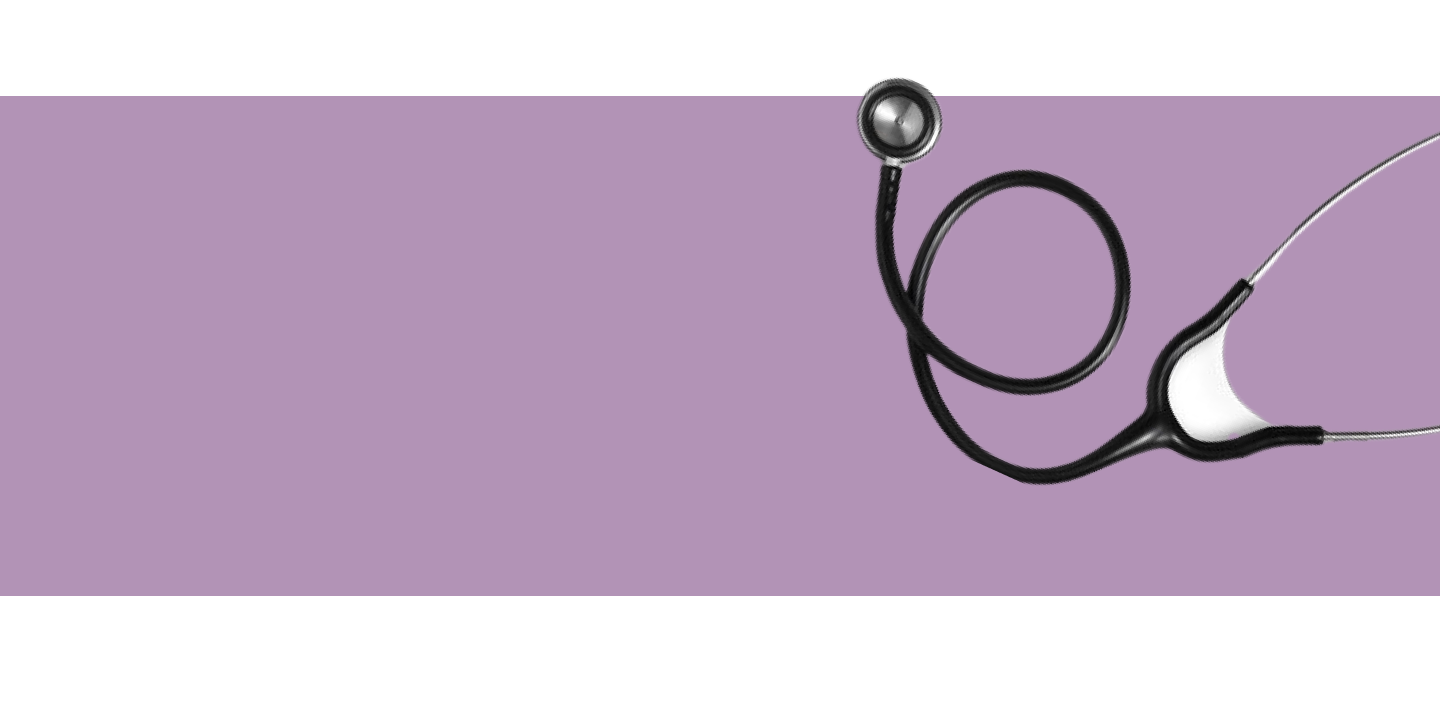
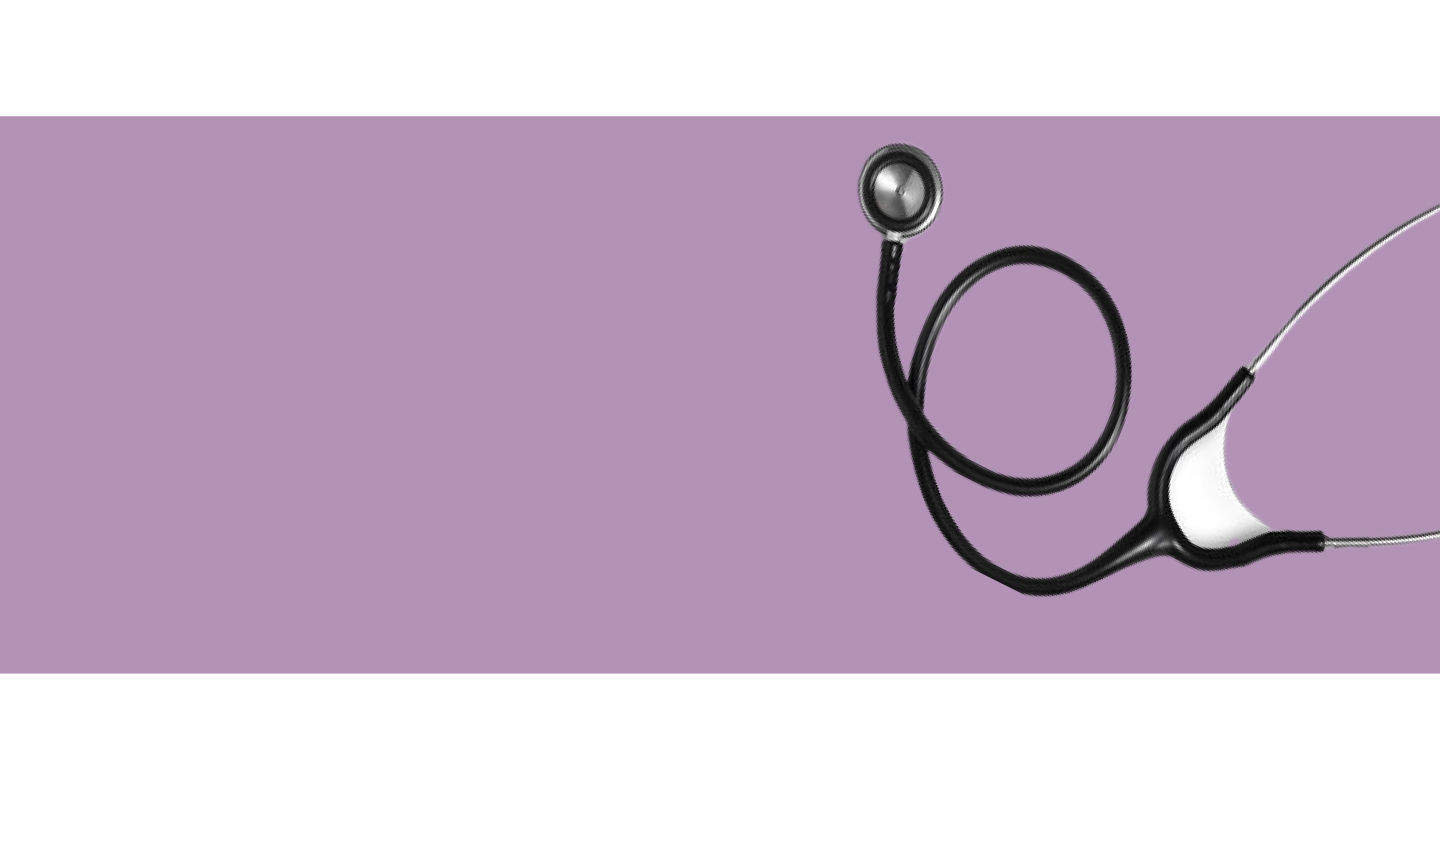
Update

Changed region(s): [[0.5938, 0.0926, 1.0, 0.7097], [0.0, 0.7714, 1.0, 0.8331], [0.9688, 0.1851, 1.0, 0.216]]

diff --git a/src/components/header/styles/header.css b/src/components/header/styles/header.css
@@ -1,10 +1,10 @@
 .landing-page{
     width: 100%;
     height: 80vh;
-    background-size: 100% 100%;
+    background-size: 100% 120%;
     background-repeat: no-repeat;
     background-image: url(../../../assets/images/background.png);
-    margin-top: -4rem;
+    margin-top: -5rem;
  
 }
 .intro{
@@ -27,7 +27,7 @@
 .btn-container{
     width: 57%;
     margin: auto;
-    margin-top: 3rem;
+    margin-top: 7rem;
 }
 .save-btn{
     float: right;
